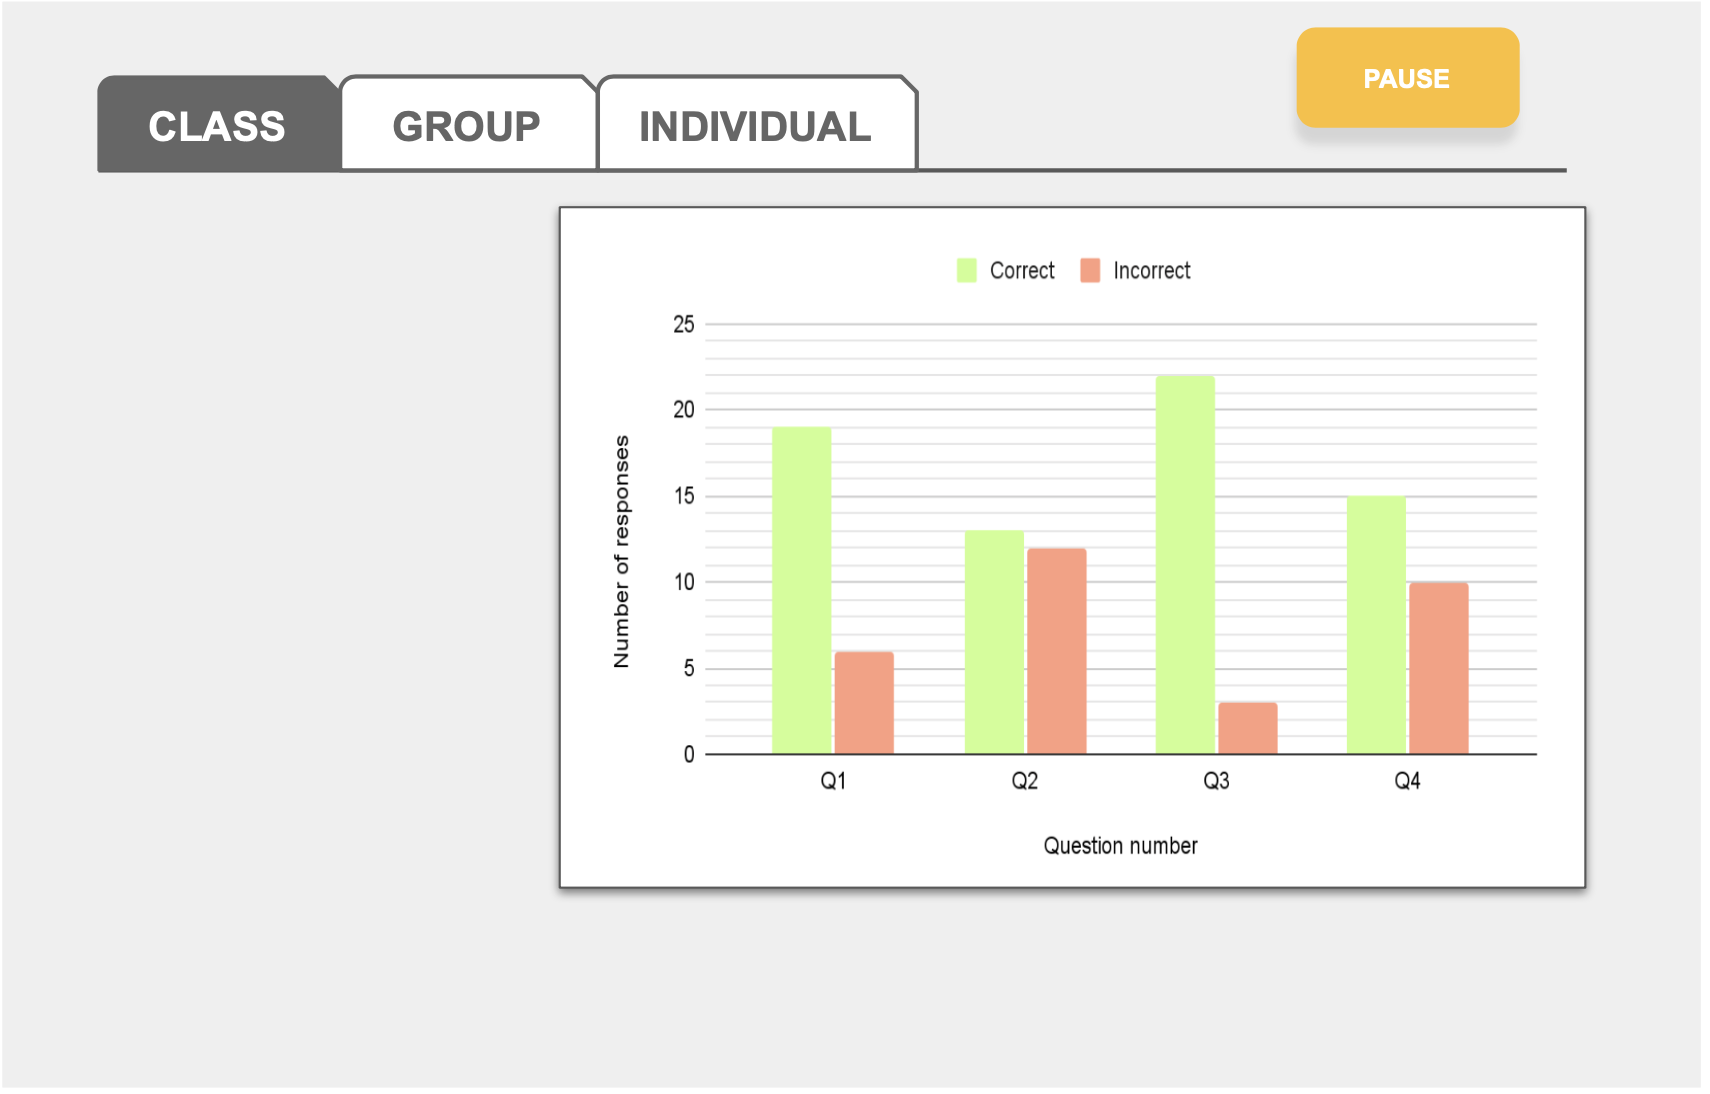
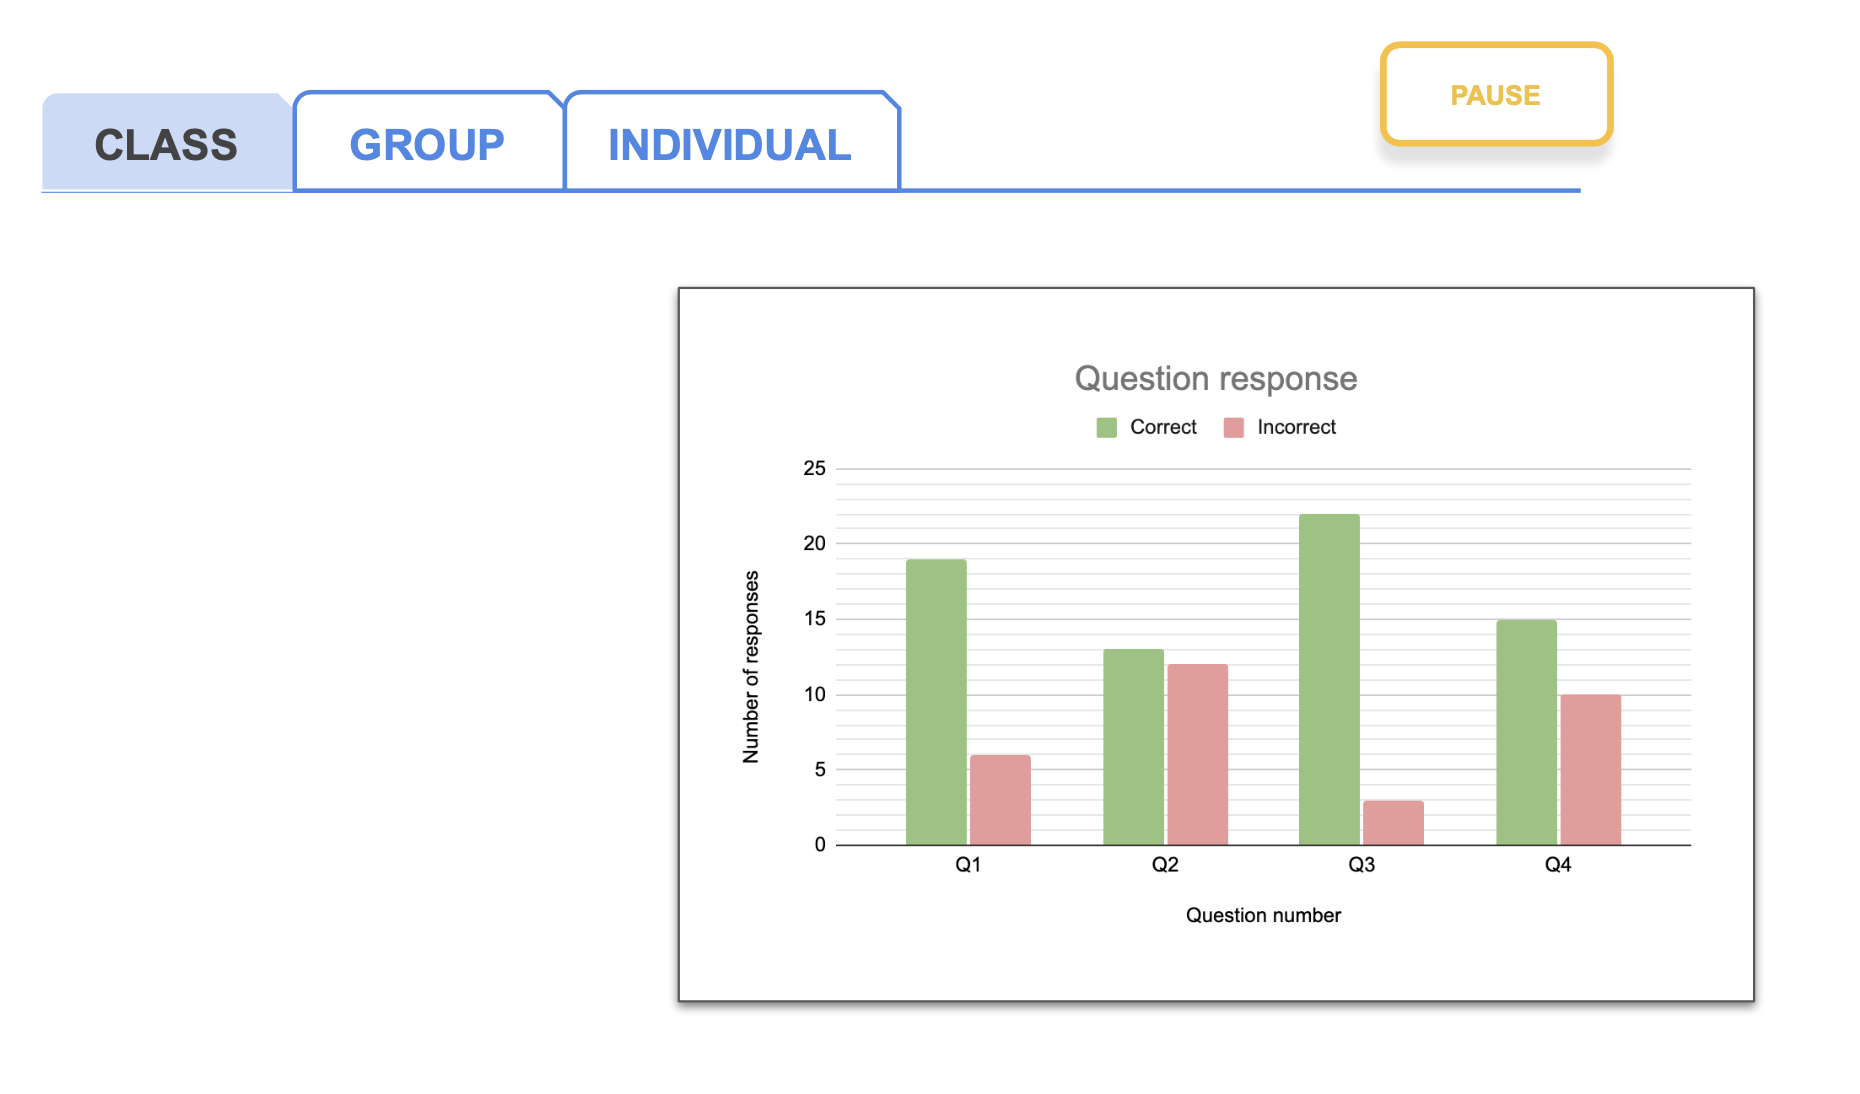
update

Changed region(s): [[0.0, 0.0, 0.9608, 0.8391], [0.3719, 0.9013, 0.9608, 0.9324]]

diff --git a/src/Participation.js b/src/Participation.js
@@ -1,10 +1,10 @@
 import React from "react"
 import {useHistory} from "react-router-dom"
-import background from './ESummary.png';
+import background from './Participation.png';
 import Button from '@material-ui/core/Button'
 import HomeIcon from '@material-ui/icons/Home';
 
-function EssaySummary() {
+function Participation() {
     let history = useHistory();
   
     function handleClick() {
@@ -28,34 +28,35 @@ function EssaySummary() {
       history.push("/progress");
     } 
 
-
     function goToParticipation() {
-      history.push("/participation");
-    } 
+        history.push("/participation");
+      } 
 
 
   
     return (
       <div style={{backgroundImage: `url(${background})`, backgroundPosition: 'center', backgroundSize: 'cover', backgroundRepeat: 'no-repeat',width: '100vw', height: '100vh' }}>
-   <div style={{display: 'flex', alignItems: 'center', flexWrap: 'wrap', flexDirection:'row-reverse'}}>
+       <div style={{display: 'flex', alignItems: 'center', flexWrap: 'wrap', flexDirection:'row-reverse'}}>
               <HomeIcon style={{width:'7vh',height:'7vh'}} onClick={handleClick}/>
         </div>
 
-<br/><br/><br/><br/><br/><br/>
+        <br/><br/><br/><br/><br/><br/>
+      
         <Button onClick={goToStatus} style={{color:'black', borderColor:"#1e90ff", display: 'flex', height:'50px', width:'300px', margin:'10px'}} variant='outlined' >Class Status❗</Button>
         <Button onClick={goToProgress} style={{color:'black', borderColor:"#1e90ff", display: 'flex', height:'50px', width:'300px', margin:'10px'}} variant='outlined' >Group Progress ❗</Button>
         <Button disabled onClick={goToStatus} style={{color:'black', borderColor:"#1e90ff", display: 'flex', height:'50px', width:'300px', margin:'10px'}} variant='outlined' >Stuckness!⃝</Button>
         <Button disabled onClick={goToStatus} style={{color:'black', borderColor:"#1e90ff", display: 'flex', height:'50px', width:'300px', margin:'10px'}} variant='outlined' >Idleness❗</Button>
         <Button disabled onClick={goToStatus} style={{color:'black', borderColor:"#1e90ff", display: 'flex', height:'50px', width:'300px', margin:'10px'}} variant='outlined' >One task/off Task❗</Button>
-        <Button onClick={goToParticipation} style={{color:'black', borderColor:"#1e90ff", display: 'flex', height:'50px', width:'300px', margin:'10px'}} variant='outlined' >Participation</Button>
+        <Button onClick={goToParticipation} style={{color:'grey', borderColor:"#1e90ff", display: 'flex', height:'50px', width:'300px', margin:'10px', fontWeight:'bold'}} variant='contained' >Participation</Button>
         <Button onClick={goToCSummary} style={{color:'black', borderColor:"#1e90ff", display: 'flex', height:'50px', width:'300px', margin:'10px'}} variant='outlined' >Close-Ended Questions</Button>
-        <Button onClick={goToESummary} style={{color:'grey', borderColor:"#1e90ff", display: 'flex', height:'50px', width:'300px', margin:'10px', fontWeight:'bold'}} variant='contained' >Essay Questions</Button>
+        <Button onClick={goToESummary} style={{color:'black', borderColor:"#1e90ff", display: 'flex', height:'50px', width:'300px', margin:'10px'}} variant='outlined' >Essay Questions</Button>
+
       
       </div>
     );
   }
 
-  export default EssaySummary
+  export default Participation
 
 
 

diff --git a/src/Progress.js b/src/Progress.js
@@ -28,20 +28,29 @@ function Progress() {
       history.push("/progress");
     } 
 
+
+    function goToParticipation() {
+      history.push("/participation");
+    } 
+
+
   
     return (
       <div style={{backgroundImage: `url(${background})`, backgroundPosition: 'center', backgroundSize: 'cover', backgroundRepeat: 'no-repeat',width: '100vw', height: '100vh' }}>
-       <div style={{display: 'flex', alignItems: 'center', flexWrap: 'wrap', flexDirection:'row-reverse'}}>
+     <div style={{display: 'flex', alignItems: 'center', flexWrap: 'wrap', flexDirection:'row-reverse'}}>
               <HomeIcon style={{width:'7vh',height:'7vh'}} onClick={handleClick}/>
         </div>
 
-        <br/><br/><br/><br/>
+<br/><br/><br/><br/><br/><br/><br/>
       
-        <Button onClick={goToStatus} style={{color:'black', borderColor:"red", display: 'flex', height:'100px'}} variant='outlined' >Class Status❗</Button><br/><br/>
-        <Button onClick={goToCSummary} style={{color:'black', borderColor:"black", display: 'flex', height:'100px'}} variant='outlined' >Close-Ended Question Summary!⃝</Button><br/><br/>
-        <Button onClick={goToESummary} style={{color:'black', borderColor:"red", display: 'flex', height:'100px'}} variant='outlined' >Essay Question Summary❗</Button><br/><br/>
-        <Button onClick={goToProgress} style={{color:'black', borderColor:"black", display: 'flex', height:'100px', border:'2px solid black'}} variant='outlined' >Group Progress!⃝</Button><br/><br/>
-
+        <Button onClick={goToStatus} style={{color:'black', borderColor:"#1e90ff", display: 'flex', height:'50px', width:'300px', margin:'10px'}} variant='outlined' >Class Status❗</Button>
+        <Button onClick={goToProgress} style={{color:'grey', borderColor:"#1e90ff", display: 'flex', height:'50px', width:'300px', margin:'10px', fontWeight:'bold'}} variant='contained' >Group Progress ❗</Button>
+        <Button disabled onClick={goToStatus} style={{color:'black', borderColor:"#1e90ff", display: 'flex', height:'50px', width:'300px', margin:'10px'}} variant='outlined' >Stuckness!⃝</Button>
+        <Button disabled onClick={goToStatus} style={{color:'black', borderColor:"#1e90ff", display: 'flex', height:'50px', width:'300px', margin:'10px'}} variant='outlined' >Idleness❗</Button>
+        <Button disabled onClick={goToStatus} style={{color:'black', borderColor:"#1e90ff", display: 'flex', height:'50px', width:'300px', margin:'10px'}} variant='outlined' >One task/off Task❗</Button>
+        <Button onClick={goToParticipation} style={{color:'black', borderColor:"#1e90ff", display: 'flex', height:'50px', width:'300px', margin:'10px'}} variant='outlined' >Participation</Button>
+        <Button onClick={goToCSummary} style={{color:'black', borderColor:"#1e90ff", display: 'flex', height:'50px', width:'300px', margin:'10px'}} variant='outlined' >Close-Ended Questions</Button>
+        <Button onClick={goToESummary} style={{color:'black', borderColor:"#1e90ff", display: 'flex', height:'50px', width:'300px', margin:'10px'}} variant='outlined' >Essay Questions</Button>
       
       </div>
     );

diff --git a/src/CloseSummary.js b/src/CloseSummary.js
@@ -28,6 +28,13 @@ function CloseSummary() {
       history.push("/progress");
     } 
 
+
+    function goToParticipation() {
+      history.push("/participation");
+    } 
+
+
+
   
     return (
       <div style={{backgroundImage: `url(${background})`, backgroundPosition: 'center', backgroundSize: 'cover', backgroundRepeat: 'no-repeat',width: '100vw', height: '100vh' }}>
@@ -35,13 +42,16 @@ function CloseSummary() {
               <HomeIcon style={{width:'7vh',height:'7vh'}} onClick={handleClick}/>
         </div>
 
-        <br/><br/><br/><br/>
+        <br/><br/><br/><br/><br/><br/>
       
-        <Button onClick={goToStatus} style={{color:'black', borderColor:"red", display: 'flex', height:'100px'}} variant='outlined' >Class Status❗</Button><br/><br/>
-        <Button onClick={goToCSummary} style={{color:'black', borderColor:"black", display: 'flex', height:'100px', border:'2px solid black'}} variant='outlined' >Close-Ended Question Summary!⃝</Button><br/><br/>
-        <Button onClick={goToESummary} style={{color:'black', borderColor:"red", display: 'flex', height:'100px'}} variant='outlined' >Essay Question Summary❗</Button><br/><br/>
-        <Button onClick={goToProgress} style={{color:'black', borderColor:"black", display: 'flex', height:'100px'}} variant='outlined' >Group Progress!⃝</Button><br/><br/>
-
+        <Button onClick={goToStatus} style={{color:'black', borderColor:"#1e90ff", display: 'flex', height:'50px', width:'300px', margin:'10px'}} variant='outlined' >Class Status❗</Button>
+        <Button onClick={goToProgress} style={{color:'black', borderColor:"#1e90ff", display: 'flex', height:'50px', width:'300px', margin:'10px'}} variant='outlined' >Group Progress ❗</Button>
+        <Button disabled onClick={goToStatus} style={{color:'black', borderColor:"#1e90ff", display: 'flex', height:'50px', width:'300px', margin:'10px'}} variant='outlined' >Stuckness!⃝</Button>
+        <Button disabled onClick={goToStatus} style={{color:'black', borderColor:"#1e90ff", display: 'flex', height:'50px', width:'300px', margin:'10px'}} variant='outlined' >Idleness❗</Button>
+        <Button disabled onClick={goToStatus} style={{color:'black', borderColor:"#1e90ff", display: 'flex', height:'50px', width:'300px', margin:'10px'}} variant='outlined' >One task/off Task❗</Button>
+        <Button onClick={goToParticipation} style={{color:'black', borderColor:"#1e90ff", display: 'flex', height:'50px', width:'300px', margin:'10px'}} variant='outlined' >Participation</Button>
+        <Button onClick={goToCSummary} style={{color:'grey', borderColor:"#1e90ff", display: 'flex', height:'50px', width:'300px', margin:'10px', fontWeight:'bold'}} variant='contained' >Close-Ended Questions</Button>
+        <Button onClick={goToESummary} style={{color:'black', borderColor:"#1e90ff", display: 'flex', height:'50px', width:'300px', margin:'10px'}} variant='outlined' >Essay Questions</Button>
       
       </div>
     );

diff --git a/src/Status.js b/src/Status.js
@@ -28,6 +28,12 @@ function Status() {
       history.push("/progress");
     } 
 
+
+    function goToParticipation() {
+      history.push("/participation");
+    } 
+
+
   
     return (
       <div style={{backgroundImage: `url(${background})`, backgroundPosition: 'center', backgroundSize: 'cover', backgroundRepeat: 'no-repeat',width: '100vw', height: '100vh' }}>
@@ -35,12 +41,16 @@ function Status() {
               <HomeIcon style={{width:'7vh',height:'7vh'}} onClick={handleClick}/>
         </div>
 
-        <br/><br/><br/><br/>
+        <br/><br/><br/><br/><br/><br/>
       
-        <Button onClick={goToStatus} style={{color:'black', borderColor:"red", display: 'flex', height:'100px', border:'2px solid red'}} variant='outlined' >Class Status❗</Button><br/><br/>
-        <Button onClick={goToCSummary} style={{color:'black', borderColor:"black", display: 'flex', height:'100px'}} variant='outlined' >Close-Ended Question Summary!⃝</Button><br/><br/>
-        <Button onClick={goToESummary} style={{color:'black', borderColor:"red", display: 'flex', height:'100px', }} variant='outlined' >Essay Question Summary❗</Button><br/><br/>
-        <Button onClick={goToProgress} style={{color:'black', borderColor:"black", display: 'flex', height:'100px'}} variant='outlined' >Group Progress!⃝</Button><br/><br/>
+        <Button onClick={goToStatus} style={{color:'grey', borderColor:"#1e90ff", display: 'flex', height:'50px', width:'300px', margin:'10px', fontWeight:'bold'}} variant='contained' >Class Status❗</Button>
+        <Button onClick={goToProgress} style={{color:'black', borderColor:"#1e90ff", display: 'flex', height:'50px', width:'300px', margin:'10px'}} variant='outlined' >Group Progress ❗</Button>
+        <Button disabled onClick={goToStatus} style={{color:'black', borderColor:"#1e90ff", display: 'flex', height:'50px', width:'300px', margin:'10px'}} variant='outlined' >Stuckness!⃝</Button>
+        <Button disabled onClick={goToStatus} style={{color:'black', borderColor:"#1e90ff", display: 'flex', height:'50px', width:'300px', margin:'10px'}} variant='outlined' >Idleness❗</Button>
+        <Button disabled onClick={goToStatus} style={{color:'black', borderColor:"#1e90ff", display: 'flex', height:'50px', width:'300px', margin:'10px'}} variant='outlined' >One task/off Task❗</Button>
+        <Button onClick={goToParticipation} style={{color:'black', borderColor:"#1e90ff", display: 'flex', height:'50px', width:'300px', margin:'10px'}} variant='outlined' >Participation</Button>
+        <Button onClick={goToCSummary} style={{color:'black', borderColor:"#1e90ff", display: 'flex', height:'50px', width:'300px', margin:'10px'}} variant='outlined' >Close-Ended Questions</Button>
+        <Button onClick={goToESummary} style={{color:'black', borderColor:"#1e90ff", display: 'flex', height:'50px', width:'300px', margin:'10px'}} variant='outlined' >Essay Questions</Button>
 
       
       </div>

diff --git a/src/Start.js b/src/Start.js
@@ -10,6 +10,7 @@ function Start(){
     const [icon2,setIcon2]=useState('');
     const [icon3,setIcon3]=useState('');
 
+
    
 
     let history = useHistory();
@@ -24,6 +25,7 @@ function Start(){
 
     function changeColor1(){
         setIcon1(<CheckIcon style={{fill: "green"}}/>);
+   
        
         
     }
@@ -39,16 +41,16 @@ function Start(){
             <div style={{display: 'flex', alignItems: 'center', flexWrap: 'wrap', flexDirection:'row-reverse'}}>
                 <HomeIcon style={{width:'7vh',height:'7vh'}} onClick={handleClick}/>
             </div>
-            <h1>WELCOME</h1> 
-            <h4>What would you like to do today?</h4>
-            <h5>MINI CHALLENGE</h5>
-            <Button endIcon={icon1} style={{color:'#1e90ff'}} variant='outlined' onClick={changeColor1}>Mini Challenge 1: Height, Mass, and Energy</Button>
-            <Button style={{color:'grey'}} variant='outlined' disabled>Mini Challenge 2: Height, Mass, and Speed</Button> <br/><br/>
-            <h5>SUB CHALLENGE</h5>
-            <Button endIcon={icon2}  style={{color:'#1e90ff'}} variant='outlined' onClick={changeColor2}>1. Initial Drop Height and Energy</Button>
-            <Button endIcon={icon3}  style={{color:'#1e90ff'}} variant='outlined' onClick={changeColor3}>2. Add a Hill</Button> 
-            <Button style={{color:'grey'}} variant='outlined'disabled>3. Explore Mass and Energy</Button> <br/><br/>
-            <Button style={{backgroundColor:'#1e90ff', color:'white'}} variant='contained' size='large' onClick={goToClass}>START</Button> <br/><br/>
+            <h1 style={{color:'grey'}}>WELCOME</h1> 
+            <h3>What would you like to do today?</h3>
+            <h3 style={{textAlign:'left',textIndent:'329px'}}>MINI CHALLENGE</h3> 
+            <Button endIcon={icon1} style={{color:'#1e90ff', margin:'10px', borderColor:"#1e90ff", fill:"green"}} variant='outlined' onClick={changeColor1}>Mini Challenge 1: Height, Mass, and Energy</Button>
+            <Button style={{color:'grey', margin:'10px'}} variant='outlined' disabled>Mini Challenge 2: Height, Mass, and Speed</Button> <br/><br/>
+            <h3 style={{textAlign:'left',textIndent:'329px'}}>SUB CHALLENGE</h3>
+            <Button endIcon={icon2}  style={{color:'#1e90ff', margin:'10px', borderColor:"#1e90ff", }} variant='outlined' onClick={changeColor2}>1. Initial Drop Height and Energy</Button>
+            <Button endIcon={icon3}  style={{color:'#1e90ff', margin:'10px', borderColor:"#1e90ff"}} variant='outlined' onClick={changeColor3}>2. Add a Hill</Button> 
+            <Button style={{color:'grey', margin:'10px'}} variant='outlined'disabled>3. Explore Mass and Energy</Button> <br/><br/>
+            <Button style={{backgroundColor:'#1e90ff', color:'white', margin:'10px', borderColor:"#1e90ff"}} variant='contained' size='large' onClick={goToClass}>START</Button> <br/><br/>
         </div>
     );
 }

diff --git a/src/Groups.js b/src/Groups.js
@@ -29,6 +29,10 @@ function Groups() {
       history.push("/progress");
     } 
 
+    function goToParticipation() {
+      history.push("/participation");
+    } 
+
 
     
     
@@ -42,10 +46,15 @@ function Groups() {
 
         <br/><br/><br/><br/>
 
-        <Button onClick={goToStatus} style={{color:'black', borderColor:"red", display: 'flex', height:'100px'}} variant='outlined' >Class Status❗</Button><br/><br/>
-        <Button onClick={goToCSummary} style={{color:'black', borderColor:"red", display: 'flex', height:'100px'}} variant='outlined' >Close-Ended Question Summary!⃝</Button><br/><br/>
-        <Button onClick={goToESummary} style={{color:'black', borderColor:"red", display: 'flex', height:'100px'}} variant='outlined' >Essay Question Summary❗</Button><br/><br/>
-        <Button onClick={goToProgress} style={{color:'black', borderColor:"red", display: 'flex', height:'100px'}} variant='outlined' >Group Progress!⃝</Button><br/><br/>
+        <Button onClick={goToStatus} style={{color:'black', borderColor:"#1e90ff", display: 'flex', height:'50px', width:'300px', margin:'10px'}} variant='outlined' >Class Status❗</Button>
+        <Button onClick={goToProgress} style={{color:'black', borderColor:"#1e90ff", display: 'flex', height:'50px', width:'300px', margin:'10px'}} variant='outlined' >Group Progress ❗</Button>
+        <Button disabled onClick={goToStatus} style={{color:'black', borderColor:"#1e90ff", display: 'flex', height:'50px', width:'300px', margin:'10px'}} variant='outlined' >Stuckness!⃝</Button>
+        <Button disabled onClick={goToStatus} style={{color:'black', borderColor:"#1e90ff", display: 'flex', height:'50px', width:'300px', margin:'10px'}} variant='outlined' >Idleness❗</Button>
+        <Button disabled onClick={goToStatus} style={{color:'black', borderColor:"#1e90ff", display: 'flex', height:'50px', width:'300px', margin:'10px'}} variant='outlined' >One task/off Task❗</Button>
+        <Button onClick={goToParticipation} style={{color:'black', borderColor:"#1e90ff", display: 'flex', height:'50px', width:'300px', margin:'10px'}} variant='outlined' >Participation</Button>
+        <Button onClick={goToCSummary} style={{color:'black', borderColor:"#1e90ff", display: 'flex', height:'50px', width:'300px', margin:'10px'}} variant='outlined' >Close-Ended Questions</Button>
+        <Button onClick={goToESummary} style={{color:'black', borderColor:"#1e90ff", display: 'flex', height:'50px', width:'300px', margin:'10px'}} variant='outlined' >Essay Questions</Button>
+
 
       </div>
     );

diff --git a/src/Login.js b/src/Login.js
@@ -11,16 +11,18 @@ function Login() {
     }
   
     return (
-      <div style={{backgroundImage: `url(${background})`, backgroundPosition: 'center bottom', backgroundSize: 'cover', backgroundRepeat: 'no-repeat',width: '100vw', height: '100vh' }}>
-       <h1>ROLLERCOASTER</h1>
+      <div style={{backgroundImage: `url(${background})`, backgroundPosition: 'center',backgroundRepeat: 'no-repeat',backgroundSize:'1500px 600px', height: '110vh' }}>
+
+       <h1 style={{backgroundColor:'#1e90ff',color:'white',height:'7vh'}}>ROLLERCOASTER</h1>
 
        <form> 
-        <input size="40" style={{height:'25px'}} type="text" name="name" placeholder="Username" /><br/><br/>
-        <input size="40" style={{height:'25px'}} type="password" name="pass" placeholder="Password"/><br/><br/>
+        <input size="40" style={{height:'40px', border:'1px solid', borderColor:'grey', width:'250px'}} type="text" name="name" placeholder="Username" /><br/><br/>
+        <input size="40" style={{height:'40px',  border:'1px solid', borderColor:'grey', width:'250px'}} type="password" name="pass" placeholder="Password"/><br/><br/>
       </form>
 
-      <Button style={{backgroundColor:'#87cefa'}} variant='contained' onClick={handleClick}>
-        LOGIN
+      <br/><br/><br/><br/>
+      <Button style={{backgroundColor:'#1e90ff', color:'white', margin:'10px', borderColor:"#1e90ff", width:'250px'}} variant='contained' size='large' onClick={handleClick}>
+        LOG IN
       </Button>
       </div>
     );

diff --git a/src/App.js b/src/App.js
@@ -8,6 +8,7 @@ import Status from "./Status"
 import CloseSummary from "./CloseSummary"
 import EssaySummary from './EssaySummary';
 import Progress from './Progress';
+import Participation from './Participation';
 import {Route} from 'react-router-dom'
 
 
@@ -24,6 +25,7 @@ function App() {
       <Route exact path= "/cSummary" component={CloseSummary}/>
       <Route exact path= "/eSummary" component={EssaySummary}/>
       <Route exact path= "/progress" component={Progress}/>
+      <Route exact path= "/participation" component={Participation}/>
     </div>
   );
 }
